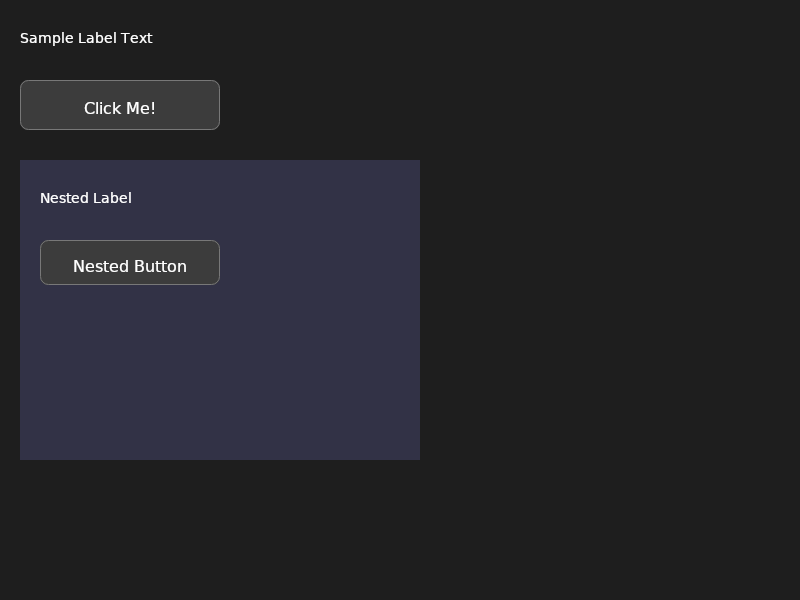
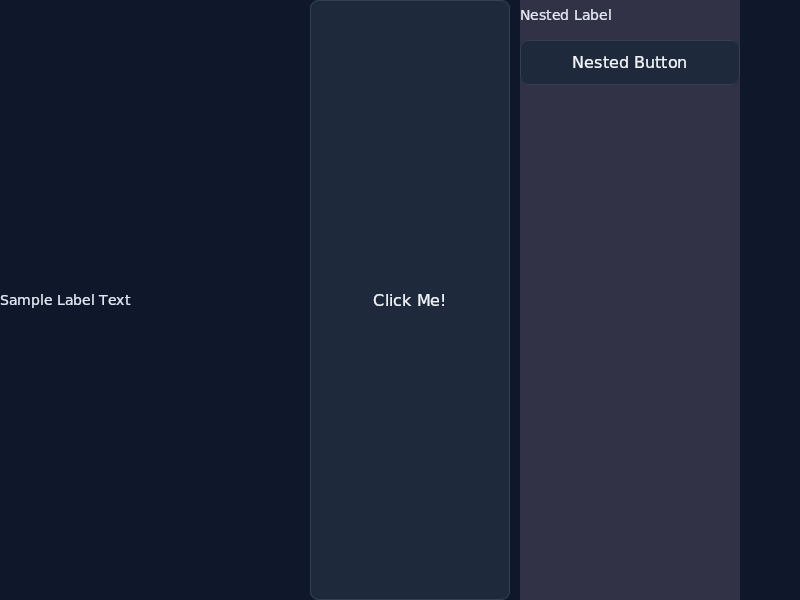
feat(graphics): modernize built-in themes and page background
The built-in palettes were flat Swing-era greys (#F5F5F5 / #1E1E1E) with a
mid-grey border (#969696) and a Windows-blue accent, and the page background
was hard-coded in Application instead of following the theme — so switching to
the light palette still painted a dark page.

Replace both palettes with a modern-web look: a cool neutral ("slate") ramp, an
indigo primary, hairline borders and a clear surface hierarchy (page -> control
-> input well). Light reaches ~16:1 page contrast, dark ~13:1; control text
clears AA in both modes. Radii, padding and the builder API are unchanged, so
existing custom themes keep compiling.

Application now clears the frame with Theme.current().getBackgroundColor()
instead of a hard-coded grey, so the page tracks the installed theme. Add
ModernPaletteTest, which pins the design intent (neutral chroma, hairline
borders, WCAG contrast) rather than exact ARGB values, so the palette can be
tuned without rewriting tests.

diff --git a/src/test/java/io/github/yasmramos/glyphui/graphics/ModernPaletteTest.java b/src/test/java/io/github/yasmramos/glyphui/graphics/ModernPaletteTest.java
@@ -1,0 +1,149 @@
+package io.github.yasmramos.glyphui.graphics;
+
+import io.github.yasmramos.glyphui.graphics.Theme;
+import org.junit.jupiter.api.Test;
+
+import static org.junit.jupiter.api.Assertions.assertEquals;
+import static org.junit.jupiter.api.Assertions.assertNotEquals;
+import static org.junit.jupiter.api.Assertions.assertTrue;
+
+/**
+ * Regression tests for the built-in modern-web palettes. They pin the
+ * properties that make the look read as "modern" rather than the exact ARGB
+ * values, so the palette can be tuned without rewriting the tests while the
+ * design intent stays enforced:
+ *
+ * <ul>
+ *   <li>neutral ramps (cool grey, only a slight blue tint),</li>
+ *   <li>a saturated accent that stands out from the neutrals,</li>
+ *   <li>borders that read as hairlines rather than the old heavy grey,</li>
+ *   <li>a surface ramp that keeps controls distinguishable from the page,</li>
+ *   <li>readable text contrast in both modes.</li>
+ * </ul>
+ */
+class ModernPaletteTest {
+
+    /**
+     * A cool neutral ramp (Tailwind's "slate") carries a slight blue tint, so
+     * a small non-zero chroma is expected; a saturated brand colour is not.
+     */
+    private static final int NEUTRAL_CHROMA = 45;
+
+    @Test
+    void neutralsAreCoolAndLowChromaInBothModes() {
+        for (Theme t : new Theme[] {Theme.light(), Theme.dark()}) {
+            assertLowChroma(t.getBackgroundColor(), "background");
+            assertLowChroma(t.getForegroundColor(), "foreground");
+            assertLowChroma(t.getControlNormalColor(), "control surface");
+            assertLowChroma(t.getBorderColor(), "border");
+        }
+    }
+
+    @Test
+    void accentIsSaturatedAndDistinctFromTheNeutrals() {
+        for (Theme t : new Theme[] {Theme.light(), Theme.dark()}) {
+            int accent = t.getAccentColor();
+            assertTrue(chroma(accent) >= 100,
+                    "the accent must be clearly saturated, got " + hex(accent));
+            assertNotEquals(accent, t.getBackgroundColor());
+            assertNotEquals(accent, t.getControlNormalColor());
+        }
+    }
+
+    @Test
+    void bordersAreHairlinesNotHeavyGrey() {
+        // The old palettes used mid-grey borders (#969696 light / #787878
+        // dark) that sat ~225 channel-steps from the surface they outlined.
+        // A modern hairline sits much closer to that surface.
+        for (Theme t : new Theme[] {Theme.light(), Theme.dark()}) {
+            int border = t.getBorderColor();
+            int surface = t.getControlNormalColor();
+            assertTrue(channelDistance(border, surface) < 130,
+                    "border " + hex(border) + " should hug the surface "
+                            + hex(surface) + " as a hairline, not a heavy grey");
+            assertTrue(chroma(border) <= NEUTRAL_CHROMA,
+                    "border " + hex(border) + " should stay neutral");
+        }
+    }
+
+    @Test
+    void controlSurfacesStayDistinguishableFromThePage() {
+        for (Theme t : new Theme[] {Theme.light(), Theme.dark()}) {
+            assertNotEquals(t.getControlNormalColor(), t.getBackgroundColor(),
+                    "a control surface must not vanish into the page");
+        }
+    }
+
+    @Test
+    void textHasReadableContrastAgainstItsSurface() {
+        for (Theme t : new Theme[] {Theme.light(), Theme.dark()}) {
+            double page = contrastRatio(t.getForegroundColor(), t.getBackgroundColor());
+            assertTrue(page >= 7.0,
+                    "foreground on page should reach AAA, got " + page);
+            double control = contrastRatio(t.getControlTextColor(), t.getControlNormalColor());
+            assertTrue(control >= 4.5,
+                    "control text should reach AA, got " + control);
+        }
+    }
+
+    @Test
+    void disabledTextIsDimmerButStillLegible() {
+        for (Theme t : new Theme[] {Theme.light(), Theme.dark()}) {
+            double enabled = contrastRatio(t.getControlTextColor(), t.getControlNormalColor());
+            double disabled = contrastRatio(t.getControlTextDisabledColor(),
+                    t.getControlNormalColor());
+            assertTrue(disabled < enabled, "disabled text must read as dimmer");
+            assertTrue(disabled >= 1.6, "disabled text must remain visible");
+        }
+    }
+
+    // ------------------------------------------------------------------
+    // Helpers
+    // ------------------------------------------------------------------
+
+    private static int red(int argb) { return (argb >> 16) & 0xFF; }
+    private static int green(int argb) { return (argb >> 8) & 0xFF; }
+    private static int blue(int argb) { return argb & 0xFF; }
+
+    /** Max channel minus min channel: 0 = grey, 255 = fully saturated. */
+    private static int chroma(int argb) {
+        int max = Math.max(red(argb), Math.max(green(argb), blue(argb)));
+        int min = Math.min(red(argb), Math.min(green(argb), blue(argb)));
+        return max - min;
+    }
+
+    private static void assertLowChroma(int argb, String what) {
+        assertTrue(chroma(argb) <= NEUTRAL_CHROMA,
+                what + " " + hex(argb) + " should be a neutral, not a tinted colour");
+    }
+
+    private static int channelDistance(int a, int b) {
+        return Math.abs(red(a) - red(b))
+                + Math.abs(green(a) - green(b))
+                + Math.abs(blue(a) - blue(b));
+    }
+
+    /** WCAG relative-luminance contrast ratio (1.0 … 21.0). */
+    private static double contrastRatio(int a, int b) {
+        double la = luminance(a);
+        double lb = luminance(b);
+        double lighter = Math.max(la, lb);
+        double darker = Math.min(la, lb);
+        return (lighter + 0.05) / (darker + 0.05);
+    }
+
+    private static double luminance(int argb) {
+        double r = linear(red(argb) / 255.0);
+        double g = linear(green(argb) / 255.0);
+        double b = linear(blue(argb) / 255.0);
+        return 0.2126 * r + 0.7152 * g + 0.0722 * b;
+    }
+
+    private static double linear(double c) {
+        return c <= 0.03928 ? c / 12.92 : Math.pow((c + 0.055) / 1.055, 2.4);
+    }
+
+    private static String hex(int argb) {
+        return String.format("#%08X", argb);
+    }
+}

diff --git a/src/main/java/io/github/yasmramos/glyphui/graphics/Theme.java b/src/main/java/io/github/yasmramos/glyphui/graphics/Theme.java
@@ -511,39 +511,46 @@ public final class Theme {
         public Builder mode(Mode mode) {
             this.mode = mode;
             if (mode == Mode.LIGHT) {
-                this.backgroundColor = Color.makeARGB(255, 245, 245, 245);
-                this.foregroundColor = Color.makeARGB(255, 25, 25, 25);
-                this.accentColor = Color.makeARGB(255, 0, 120, 215);
-                this.controlNormalColor = Color.makeARGB(255, 225, 225, 225);
-                this.controlHoverColor = Color.makeARGB(255, 205, 205, 205);
-                this.controlPressedColor = Color.makeARGB(255, 185, 185, 185);
-                this.controlDisabledColor = Color.makeARGB(255, 235, 235, 235);
-                this.controlTextColor = Color.makeARGB(255, 25, 25, 25);
-                this.controlTextDisabledColor = Color.makeARGB(255, 160, 160, 160);
-                this.borderColor = Color.makeARGB(255, 150, 150, 150);
+                // Modern-web light palette: a cool neutral ("slate") ramp with
+                // an indigo primary. The page is a faint off-white so white
+                // control surfaces read as raised, and borders are hairlines
+                // rather than the heavy grey of a native toolkit.
+                this.backgroundColor = Color.makeARGB(255, 248, 250, 252);
+                this.foregroundColor = Color.makeARGB(255, 15, 23, 42);
+                this.accentColor = Color.makeARGB(255, 79, 70, 229);
+                this.controlNormalColor = Color.makeARGB(255, 255, 255, 255);
+                this.controlHoverColor = Color.makeARGB(255, 241, 245, 249);
+                this.controlPressedColor = Color.makeARGB(255, 226, 232, 240);
+                this.controlDisabledColor = Color.makeARGB(255, 241, 245, 249);
+                this.controlTextColor = Color.makeARGB(255, 15, 23, 42);
+                this.controlTextDisabledColor = Color.makeARGB(255, 148, 163, 184);
+                this.borderColor = Color.makeARGB(255, 226, 232, 240);
                 // Text-entry surface: a clean white well so the field reads as
                 // an editable area rather than a hole in the background.
                 this.inputBackgroundColor = Color.makeARGB(255, 255, 255, 255);
                 // Title-bar chrome: a hair darker than the page so the bar
                 // reads as a distinct strip above the content.
-                this.titleBarBackgroundColor = Color.makeARGB(255, 235, 235, 235);
+                this.titleBarBackgroundColor = Color.makeARGB(255, 241, 245, 249);
             } else {
-                this.backgroundColor = Color.makeARGB(255, 30, 30, 30);
-                this.foregroundColor = Color.makeARGB(255, 240, 240, 240);
-                this.accentColor = Color.makeARGB(255, 0, 122, 255);
-                this.controlNormalColor = Color.makeARGB(255, 60, 60, 60);
-                this.controlHoverColor = Color.makeARGB(255, 80, 80, 80);
-                this.controlPressedColor = Color.makeARGB(255, 100, 100, 100);
-                this.controlDisabledColor = Color.makeARGB(255, 50, 50, 50);
-                this.controlTextColor = Color.makeARGB(255, 255, 255, 255);
-                this.controlTextDisabledColor = Color.makeARGB(255, 150, 150, 150);
-                this.borderColor = Color.makeARGB(255, 120, 120, 120);
+                // Modern-web dark palette: a deep slate page (not pure black)
+                // with a brighter indigo primary, so surfaces stay legible
+                // without the flat "console" look of a black background.
+                this.backgroundColor = Color.makeARGB(255, 15, 23, 42);
+                this.foregroundColor = Color.makeARGB(255, 226, 232, 240);
+                this.accentColor = Color.makeARGB(255, 99, 102, 241);
+                this.controlNormalColor = Color.makeARGB(255, 30, 41, 59);
+                this.controlHoverColor = Color.makeARGB(255, 51, 65, 85);
+                this.controlPressedColor = Color.makeARGB(255, 71, 85, 105);
+                this.controlDisabledColor = Color.makeARGB(255, 30, 41, 59);
+                this.controlTextColor = Color.makeARGB(255, 241, 245, 249);
+                this.controlTextDisabledColor = Color.makeARGB(255, 100, 116, 139);
+                this.borderColor = Color.makeARGB(255, 51, 65, 85);
                 // Text-entry surface: slightly above the page background so the
                 // field reads as an editable well instead of vanishing into it.
-                this.inputBackgroundColor = Color.makeARGB(255, 42, 42, 42);
+                this.inputBackgroundColor = Color.makeARGB(255, 30, 41, 59);
                 // Title-bar chrome: a hair darker than the page so the bar
                 // reads as a distinct strip above the content.
-                this.titleBarBackgroundColor = Color.makeARGB(255, 24, 24, 24);
+                this.titleBarBackgroundColor = Color.makeARGB(255, 2, 6, 23);
             }
             return this;
         }

diff --git a/src/main/java/io/github/yasmramos/glyphui/core/Application.java b/src/main/java/io/github/yasmramos/glyphui/core/Application.java
@@ -13,6 +13,7 @@ import io.github.yasmramos.glyphui.core.backend.RasterSurfaceFactory;
 import io.github.yasmramos.glyphui.core.backend.SurfaceFactory;
 import io.github.yasmramos.glyphui.core.backend.SurfaceResult;
 import io.github.yasmramos.glyphui.graphics.Canvas;
+import io.github.yasmramos.glyphui.graphics.Theme;
 import io.github.yasmramos.glyphui.ui.Component;
 import io.github.yasmramos.glyphui.ui.ComponentState;
 import io.github.yasmramos.glyphui.ui.Form;
@@ -1802,8 +1803,10 @@ public class Application implements AutoCloseable {
         try {
             // Clear once, on the identity CTM, so the whole PHYSICAL surface
             // is covered. (A second clear through the wrapper was redundant
-            // and polluted the save/restore stack.)
-            nativeCanvas.clear(Color.makeARGB(255, 30, 30, 30));
+            // and polluted the save/restore stack.) The colour comes from the
+            // current theme so switching to a light palette paints a light
+            // page instead of the hard-coded dark grey.
+            nativeCanvas.clear(Theme.current().getBackgroundColor());
 
             // HiDPI: map logical UI coordinates to physical device pixels
             nativeCanvas.scale(contentScaleX, contentScaleY);

diff --git a/README.md b/README.md
@@ -90,6 +90,29 @@ free:
   exposes the same choice per widget.
 - **GPU targets**: the GL backend requests 4x MSAA (`-Dglyph.gl.samples=0|2|4|8`).
 
+### Theme
+
+The built-in palettes follow a modern-web look: a cool neutral ("slate") ramp
+with an indigo primary, hairline borders and a clear surface hierarchy (page →
+control → input well), with text contrast that reaches WCAG AAA on the page and
+AA on controls in both modes. Dark is the process default.
+
+```java
+Theme.setCurrent(Theme.light());   // or Theme.dark()
+
+// Derive a custom theme from a palette; mode() re-seeds every color token,
+// so set it first (or use Theme.builder(mode)) and override afterwards.
+Theme brand = Theme.builder(Theme.Mode.LIGHT)
+        .accentColor(0xFF0EA5E9)
+        .controlCornerRadius(10.0f)
+        .build();
+```
+
+Themes are immutable value objects, and `ModernPaletteTest` pins the design
+intent (neutral chroma, hairline borders, contrast ratios) rather than exact
+ARGB values, so palettes can be tuned without rewriting tests.
+
+
 ## Project Structure
 
 ```
